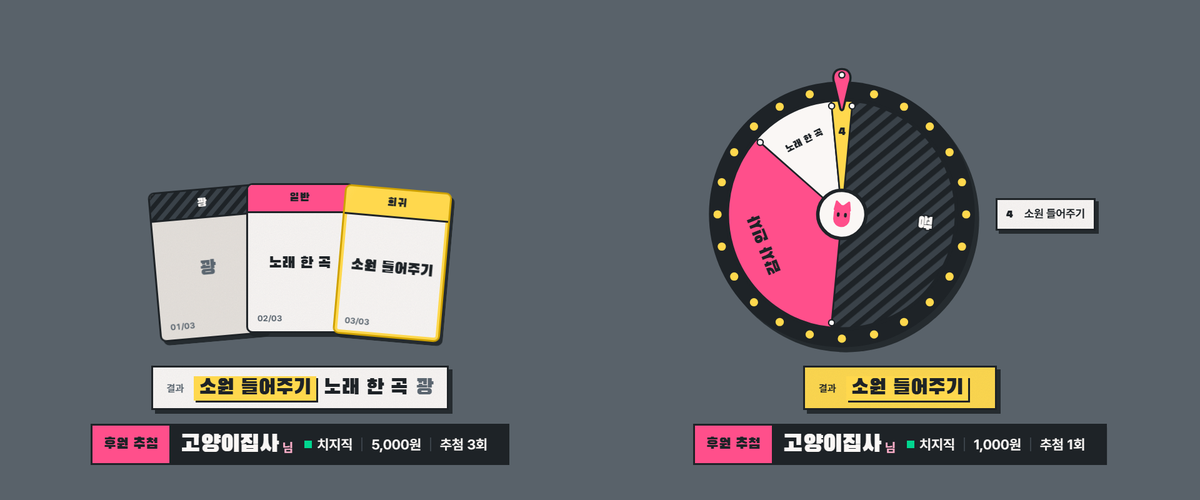
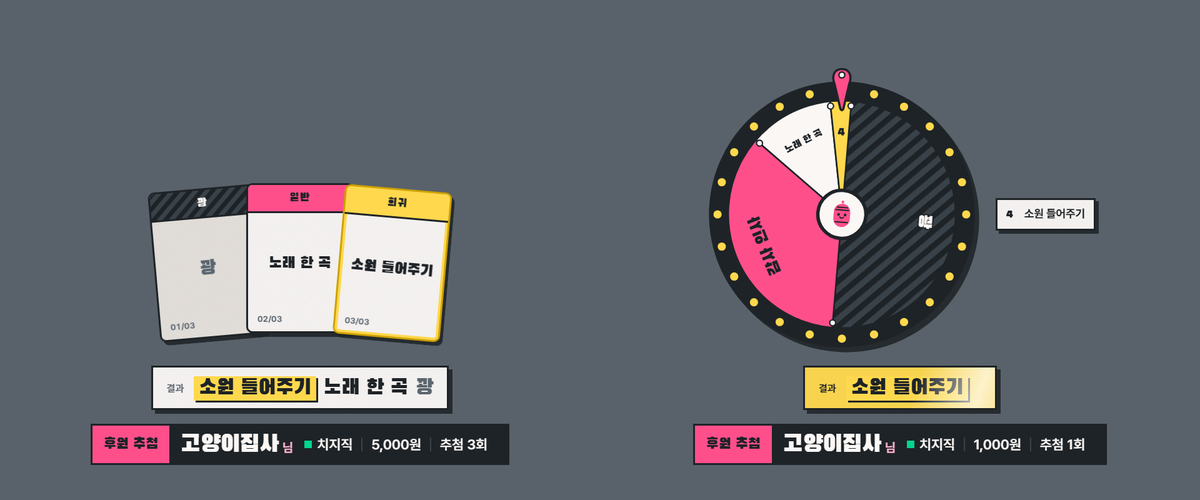
옛 고양이 귀 마이크 문양을 마스코트 마이로: 추첨 카드 뒷면, 룰렛 가운데, 즉석 복권 머리, 추첨기 손잡이, 뽑기판 덮개 무늬(마이 문양: 꼭대기 불, 망 두 줄, 웃는 얼굴, 띠, 두 색이라 디자인 색 그대로), 달리기 경주 캐릭터(참가자 색 몸에 은색 망 머리와 코랄 불, 눈과 경계선이 겹치지 않게). 레이스 설명과 사용 설명서 문구, 추첨 연출 그림 다시 찍음, 시험

diff --git a/src/debutkit/overlay/static/race.js b/src/debutkit/overlay/static/race.js
@@ -1732,7 +1732,7 @@
     return { drawStatic, draw, shake, events, end: heat.end, finishes: heat.order.map((lane) => profile.times[lane]), tick: "tick" };
   }
 
-  // ---------------------------------------------------------------- 달리기 경주: 고양이 귀 마이크 콩 캐릭터(원작 도형)
+  // ---------------------------------------------------------------- 달리기 경주: 마스코트 마이(리본 마이크, 은색 망 머리와 코랄 불)
   function drawRunner(g, P, x, y, S, color, phase, pose, t, number, font) {
     // x, y: 발 아래 땅, S: 키
     g.save();
@@ -1783,28 +1783,15 @@
     }
     g.translate(0, bodyY);
     g.rotate(tilt);
-    // 귀
-    g.fillStyle = color.fill;
+    // 꼭대기 불(마이의 코랄 불): 몸 뒤에서 위로 조금 나옴
+    g.fillStyle = "#ff6f6f";
     g.strokeStyle = outline;
     g.lineWidth = line;
-    for (const side of [-1, 1]) {
-      g.beginPath();
-      g.moveTo(side * bodyW * 0.42, -bodyH * 0.22);
-      g.lineTo(side * bodyW * 0.36, -bodyH * 0.72);
-      g.lineTo(side * bodyW * 0.06, -bodyH * 0.42);
-      g.closePath();
-      g.fill();
-      g.stroke();
-      g.fillStyle = color.light;
-      g.beginPath();
-      g.moveTo(side * bodyW * 0.34, -bodyH * 0.3);
-      g.lineTo(side * bodyW * 0.32, -bodyH * 0.6);
-      g.lineTo(side * bodyW * 0.14, -bodyH * 0.42);
-      g.closePath();
-      g.fill();
-      g.fillStyle = color.fill;
-    }
-    // 몸(마이크 머리 모양의 콩)
+    g.beginPath();
+    g.arc(0, -bodyH * 0.53, Math.max(2, bodyW * 0.1), 0, TAU);
+    g.fill();
+    g.stroke();
+    // 몸(마이: 리본 마이크 모양). 몸 색은 참가자마다 다름
     const shade = g.createLinearGradient(0, -bodyH / 2, 0, bodyH / 2);
     shade.addColorStop(0, P.design === "paper" ? color.fill : color.light);
     shade.addColorStop(0.45, color.fill);
@@ -1812,16 +1799,37 @@
     g.fillStyle = shade;
     roundRect(g, -bodyW / 2, -bodyH / 2, bodyW, bodyH, bodyW * 0.48);
     g.fill();
-    g.stroke();
-    // 마이크 망(이마 위 점무늬)
-    g.fillStyle = "rgba(255, 255, 255, 0.35)";
-    for (let k = -1; k <= 1; k++) {
+    // 망 머리: 몸 윗부분을 은색으로, 망 두 줄과 경계선. 눈과 겹치지 않도록 경계선은 눈 위쪽에 여유를 둠
+    const capBottom = -bodyH * 0.25;
+    g.save();
+    roundRect(g, -bodyW / 2, -bodyH / 2, bodyW, bodyH, bodyW * 0.48);
+    g.clip();
+    const metal = g.createLinearGradient(0, -bodyH / 2, 0, capBottom);
+    metal.addColorStop(0, "#f4f1fb");
+    metal.addColorStop(1, "#cfc8e6");
+    g.fillStyle = metal;
+    g.fillRect(-bodyW / 2, -bodyH / 2, bodyW, capBottom + bodyH / 2);
+    g.strokeStyle = "rgba(74, 60, 134, 0.7)";
+    g.lineWidth = Math.max(1, S * 0.02);
+    for (const k of [0.41, 0.33]) {
       g.beginPath();
-      g.arc(k * bodyW * 0.16, -bodyH * 0.3, Math.max(1, S * 0.022), 0, TAU);
-      g.fill();
+      g.moveTo(-bodyW / 2, -bodyH * k);
+      g.lineTo(bodyW / 2, -bodyH * k);
+      g.stroke();
     }
-    // 눈(오른쪽을 봄)
-    const eyeY = -bodyH * 0.08;
+    g.strokeStyle = outline;
+    g.lineWidth = line;
+    g.beginPath();
+    g.moveTo(-bodyW / 2, capBottom);
+    g.lineTo(bodyW / 2, capBottom);
+    g.stroke();
+    g.restore();
+    g.strokeStyle = outline;
+    g.lineWidth = line;
+    roundRect(g, -bodyW / 2, -bodyH / 2, bodyW, bodyH, bodyW * 0.48);
+    g.stroke();
+    // 눈(오른쪽을 봄). 망 머리 경계선 아래
+    const eyeY = -bodyH * 0.03;
     g.fillStyle = "#ffffff";
     g.beginPath();
     g.ellipse(bodyW * 0.2, eyeY, S * 0.07, S * 0.085, 0, 0, TAU);

diff --git a/src/debutkit/overlay/static/draw.js b/src/debutkit/overlay/static/draw.js
@@ -1,5 +1,5 @@
 // debutkit 후원 추첨 연출(OBS 브라우저 소스, 권장 1920x1080). /live?feeds=draw 로 추첨 결과를 받아 차례로 연출한다.
-// 콘셉트 "방송 소품": 고양이 귀 마이크 문양을 찍은 실물 카드와 무대용 상품 룰렛. 소품과 하단 띠만 화면 아래쪽에 놓는다.
+// 콘셉트 "방송 소품": 마스코트 마이(리본 마이크) 문양을 찍은 실물 카드와 무대용 상품 룰렛. 소품과 하단 띠만 화면 아래쪽에 놓는다.
 // 연출 순서: 시작(띠, 소품 등장), 예고(희귀 카드만 금색 빛, 실제 결과와 같음), 공개(일반 카드 빠르게, 희귀 카드 마지막 천천히), 정리(결과 판), 퇴장.
 // 뽑기는 서버가 하고 이 화면은 받은 결과를 보여 주기만 한다(모든 화면이 같은 결과). 글은 textContent로만 넣는다.
 // 시청자 참여 추첨(/live의 raffle): 모집 중에는 하단 모집 띠와 참가자 이름, 결과는 당첨 카드나 순서표로 같은 차례 안에서 연출.
@@ -50,13 +50,18 @@
     ? Promise.all(['40px "Black Han Sans"', '600 20px "Pretendard"', '700 20px "Pretendard"'].map((font) => document.fonts.load(font))).catch(() => null)
     : Promise.resolve();
 
-  // 고양이 귀 마이크 문양(assets/brand의 기호와 같은 도형). 그룹으로 만들어 카드 뒷면과 룰렛 가운데에 사용
-  function emblemShapes(body, eyes) {
+  // 마스코트 마이(리본 마이크) 문양: 꼭대기 불, 둥근 몸, 위쪽 망 두 줄, 눈과 웃는 입, 아래 띠. 몸 색과 무늬 색 두 가지로
+  // (assets/brand의 마이를 줄인 모양, pick.js와 같은 도형). 그룹으로 만들어 카드 뒷면, 룰렛 가운데, 소품에 사용. 가운데는 (60, 45)
+  function emblemShapes(body, ink) {
     const group = svgEl("g");
-    group.appendChild(svgEl("path", { d: "M38 32 L42 9 L56 21 Z M82 32 L78 9 L64 21 Z", fill: body, stroke: body, "stroke-width": 6, "stroke-linejoin": "round" }));
-    group.appendChild(svgEl("rect", { x: 36, y: 18, width: 48, height: 64, rx: 24, fill: body }));
-    group.appendChild(svgEl("rect", { x: 45.5, y: 40, width: 8, height: 13, rx: 4, fill: eyes }));
-    group.appendChild(svgEl("rect", { x: 66.5, y: 40, width: 8, height: 13, rx: 4, fill: eyes }));
+    group.appendChild(svgEl("circle", { cx: 60, cy: 9, r: 4, fill: body }));
+    group.appendChild(svgEl("rect", { x: 36, y: 14, width: 48, height: 68, rx: 24, fill: body }));
+    group.appendChild(svgEl("rect", { x: 43, y: 23, width: 34, height: 3.6, rx: 1.8, fill: ink }));
+    group.appendChild(svgEl("rect", { x: 39.5, y: 30.5, width: 41, height: 3.6, rx: 1.8, fill: ink }));
+    group.appendChild(svgEl("circle", { cx: 50.5, cy: 46, r: 4, fill: ink }));
+    group.appendChild(svgEl("circle", { cx: 69.5, cy: 46, r: 4, fill: ink }));
+    group.appendChild(svgEl("path", { d: "M54.5 53 Q60 59.5 65.5 53", fill: "none", stroke: ink, "stroke-width": 3.4, "stroke-linecap": "round" }));
+    group.appendChild(svgEl("rect", { x: 40, y: 66, width: 40, height: 3.6, rx: 1.8, fill: ink }));
     return group;
   }
 

diff --git a/src/debutkit/overlay/static/pick.js b/src/debutkit/overlay/static/pick.js
@@ -211,13 +211,17 @@
     return `rgba(${(value >> 16) & 255}, ${(value >> 8) & 255}, ${value & 255}, ${alpha})`;
   }
 
-  // 고양이 귀 마이크 문양(debutkit 기호, 추첨 카드 뒷면과 같은 도형)
-  function emblem(body, eyes) {
+  // 마스코트 마이(리본 마이크) 문양: 꼭대기 불, 둥근 몸, 망 두 줄, 눈과 웃는 입, 아래 띠(추첨 카드 뒷면 draw.js와 같은 도형)
+  function emblem(body, ink) {
     const svg = svgEl("svg", { viewBox: "30 4 60 82", class: "pk-emblem", "aria-hidden": "true" });
-    svg.appendChild(svgEl("path", { d: "M38 32 L42 9 L56 21 Z M82 32 L78 9 L64 21 Z", fill: body, stroke: body, "stroke-width": 6, "stroke-linejoin": "round" }));
-    svg.appendChild(svgEl("rect", { x: 36, y: 18, width: 48, height: 64, rx: 24, fill: body }));
-    svg.appendChild(svgEl("rect", { x: 45.5, y: 40, width: 8, height: 13, rx: 4, fill: eyes }));
-    svg.appendChild(svgEl("rect", { x: 66.5, y: 40, width: 8, height: 13, rx: 4, fill: eyes }));
+    svg.appendChild(svgEl("circle", { cx: 60, cy: 9, r: 4, fill: body }));
+    svg.appendChild(svgEl("rect", { x: 36, y: 14, width: 48, height: 68, rx: 24, fill: body }));
+    svg.appendChild(svgEl("rect", { x: 43, y: 23, width: 34, height: 3.6, rx: 1.8, fill: ink }));
+    svg.appendChild(svgEl("rect", { x: 39.5, y: 30.5, width: 41, height: 3.6, rx: 1.8, fill: ink }));
+    svg.appendChild(svgEl("circle", { cx: 50.5, cy: 46, r: 4, fill: ink }));
+    svg.appendChild(svgEl("circle", { cx: 69.5, cy: 46, r: 4, fill: ink }));
+    svg.appendChild(svgEl("path", { d: "M54.5 53 Q60 59.5 65.5 53", fill: "none", stroke: ink, "stroke-width": 3.4, "stroke-linecap": "round" }));
+    svg.appendChild(svgEl("rect", { x: 40, y: 66, width: 40, height: 3.6, rx: 1.8, fill: ink }));
     return svg;
   }
 

diff --git a/site/guide.html b/site/guide.html
@@ -616,7 +616,7 @@ debutkit settings                                # 저장 내용 확인</code></
           <figcaption>그림 5. 알림 꾸미기의 추천 모양과 스타일 그림</figcaption>
         </figure>
         <h3 id="overlay-draw">후원 추첨</h3>
-        <p>후원이 오면 상품표에서 확률대로 뽑아 방송 화면에 카드 뒤집기, 룰렛, 캡슐 뽑기, 즉석 복권, 티켓 출력, 추첨기, 타로 중 고른 연출로 표시합니다. 평소에는 투명하고 추첨할 때만 화면 아래쪽에 나타납니다. 고양이 귀 마이크 문양을 찍은 카드와 무대용 상품 룰렛, 후원자와 금액을 표시하는 하단 띠로 구성됩니다.</p>
+        <p>후원이 오면 상품표에서 확률대로 뽑아 방송 화면에 카드 뒤집기, 룰렛, 캡슐 뽑기, 즉석 복권, 티켓 출력, 추첨기, 타로 중 고른 연출로 표시합니다. 평소에는 투명하고 추첨할 때만 화면 아래쪽에 나타납니다. 마스코트 마이(리본 마이크) 문양을 찍은 카드와 무대용 상품 룰렛, 후원자와 금액을 표시하는 하단 띠로 구성됩니다.</p>
         <ol class="procedure">
           <li>오버레이를 시작한 뒤 시작하기 화면의 후원 추첨 카드에서 추첨 설정과 시험 추첨을 엽니다. 설정 마법사에서는 채팅과 알림 단계의 후원 추첨 설정 버튼을 누릅니다.</li>
           <li>상품표에 상품 이름과 가중치를 입력합니다. 가중치는 비율이며 확률이 바로 계산됩니다.</li>

diff --git a/src/debutkit/overlay/static/race-control.html b/src/debutkit/overlay/static/race-control.html
@@ -199,7 +199,7 @@
   };
   const GAME_HINTS = {
     marble: "구슬이 핀과 레일을 지나 굴러 내려갑니다. 100명까지 한 판.",
-    run: "고양이 귀 마이크 캐릭터가 줄마다 달립니다. 8명씩 조별 경기 뒤 결승(다음 조는 버튼으로 시작) 또는 30명까지 모두 함께.",
+    run: "마스코트 마이(리본 마이크)가 줄마다 달립니다. 8명씩 조별 경기 뒤 결승(다음 조는 버튼으로 시작) 또는 30명까지 모두 함께.",
     survival: "원형 경기장에서 부딪히며 마지막 한 명이 남습니다. 100명까지 한 판.",
   };
   let choices = null;

diff --git a/src/debutkit/overlay/static/draw.css b/src/debutkit/overlay/static/draw.css
@@ -1,4 +1,4 @@
-/* debutkit 후원 추첨 연출: "방송 소품" 콘셉트. 고양이 귀 마이크 문양을 찍은 실물 카드와 무대용 상품 룰렛.
+/* debutkit 후원 추첨 연출: "방송 소품" 콘셉트. 마스코트 마이(리본 마이크) 문양을 찍은 실물 카드와 무대용 상품 룰렛.
    색 4가지(슬레이트 잉크, 크림 종이, 핑크 인쇄, 금박은 희귀 전용), 흐림 없는 딱딱한 그림자와 외곽선.
    화면 가운데 패널 없이 소품과 하단 띠만 화면 아래쪽에 놓는다(위치, 크기는 설정). OBS 사용자 지정 CSS로 덮어쓸 수 있음 */
 

diff --git a/tests/test_brand.py b/tests/test_brand.py
@@ -68,6 +68,21 @@ def test_builtin_3d_debi_is_complete_and_recorded():
     assert record["tool"] == "packaging/build_debi3d.py" and record["changes"]
 
 
+def test_props_use_mai_not_the_old_cat_ear_emblem():
+    """추첨 카드와 소품(draw.js), 뽑기판 덮개(pick.js), 레이스 달리기(race.js)는 마스코트 마이(망 두 줄, 꼭대기 불, 띠)."""
+    from debutkit import pick
+
+    cat_ears = "M38 32 L42 9 L56 21 Z"
+    for name in ("draw.js", "pick.js"):
+        script = (STATIC / name).read_text(encoding="utf-8")
+        assert cat_ears not in script and "마이(리본 마이크) 문양" in script, name
+        assert 'cx: 60, cy: 9, r: 4' in script and 'x: 40, y: 66, width: 40' in script, name  # 꼭대기 불, 아래 띠
+    race = (STATIC / "race.js").read_text(encoding="utf-8")
+    assert "// 귀" not in race and "망 머리" in race and '"#ff6f6f"' in race
+    assert "고양이" not in (STATIC / "race-control.html").read_text(encoding="utf-8")
+    assert pick.COVERS["emblem"] == "마이 문양"
+
+
 @pytest.fixture
 def port():
     srv = OverlayServer([], port=0).start()

diff --git a/src/debutkit/pick.py b/src/debutkit/pick.py
@@ -80,7 +80,7 @@ COLORS = {"channel": ("방송 색", "#ff4f8b"), "pink": ("핑크", "#ff4f8b"), "
           "violet": ("보라", "#8a5cf5"), "lilac": ("라일락", "#c39bf0"), "cocoa": ("코코아", "#8a5a44"), "slate": ("먹", "#3a4249")}
 COLOR_PARTS = {"cover": "덮개", "board": "판 바탕", "text": "글자", "win": "당첨 띠"}
 COVERS = {"number": "큰 번호", "dots": "망점", "stripes": "사선", "check": "체크", "grid": "모눈", "stars": "별", "hearts": "하트",
-          "waves": "물결", "question": "물음표", "emblem": "고양이 문양", "gift": "선물 포장"}
+          "waves": "물결", "question": "물음표", "emblem": "마이 문양", "gift": "선물 포장"}
 #: 함께 배포한 글꼴(Black Han Sans, Pretendard)과 Windows 기본 글꼴
 FONTS = {"blackhan": "Black Han Sans", "pretendard": "Pretendard", "malgun": "맑은 고딕", "serif": "바탕(명조)"}
 EFFECTS = {"confetti": "종이 조각", "stars": "별 터짐", "ribbons": "리본", "rays": "집중선", "coins": "동전 비", "hearts": "하트",

diff --git a/CHANGELOG.md b/CHANGELOG.md
@@ -80,6 +80,7 @@
 ### 변경
 - 새 로고와 메인 캐릭터 데비: 데비(데뷔 준비생, 라벤더 옆 포니테일과 별 머리핀)가 원형 배지 위로 나온 심볼과 앱 아이콘, Pretendard 윤곽선 워드마크(i의 점 자리 노란 별), 가로형과 세로형 로고, 컨셉 보드. 32px 이하와 파비콘은 도형으로 직접 그린 마스코트 마이(리본 마이크, 줄 없는 얼굴판). 모든 파일과 실행 파일, 설정 마법사 아이콘을 packaging/build_brand.py가 생성. 브랜드 색을 라벤더, 민트, 노랑으로(stream2clip 키리의 분홍과 구분), 소개 페이지 강조 색 변경
 - 기본 캐릭터를 데비 PNGTuber 4상태로(원본 위에 Qwen-Image-Edit-2511로 만든 눈, 입만 붙여 머리핀과 헤드셋이 모든 상태에서 같음, 생성 기록). 시작하기 화면(방송 준비 데비, 방송 직전 점검 큐), 후원 추첨의 빈 결과(캡슐), 캐릭터 그림 만들기의 VRM 없음(데생이)에 마스코트 안내(debutkitUi.mascot)
+- 옛 고양이 귀 마이크 문양을 마스코트 마이로: 추첨 카드 뒷면, 룰렛 가운데, 즉석 복권 머리, 추첨기 손잡이, 뽑기판 덮개 무늬(마이 문양, 꼭대기 불, 망 두 줄, 웃는 얼굴, 띠. 몸 색과 무늬 색 두 가지라 디자인 색을 그대로 따름), 달리기 경주 캐릭터(참가자 색 몸에 은색 망 머리와 코랄 불, 눈과 경계선이 겹치지 않게). 추첨 연출 그림 다시 찍음
 - 마스코트 캐스트 시안(assets/brand/mascot): 데비(데뷔 준비생), 마이(리본 마이크), 큐(무대 감독), 뽀글이들, 캡슐, 뻐꾹, 데생이, 패드. FLUX.1 schnell(Apache-2.0) 생성, 배경 제거, 파일별 지시문과 시드 기록. 게임 패키지 미리보기의 예시 캐릭터를 데비로
 - 모든 방송 화면(채팅, 알림, 캐릭터, 추첨, 뽑기판, 후원 벽, 레이스, 휴대폰 앱 카메라)이 공유 연결(SharedWorker) 하나로 서버 값을 받음. 브라우저는 같은 주소에 동시 연결을 6개까지만 열어(OBS 브라우저 소스끼리도 공유) 연출 화면이 늘면 일부 화면이 멈추던 문제를 막음. 공유 연결이 안 되는 환경은 화면마다 직접 연결
 - 무대 차례: 화면 가운데를 크게 쓰는 연출(후원 추첨, 참여 추첨 결과, 뽑기판 결과)이 겹치지 않도록 먼저 온 것부터 하나씩. 알림, 후원 벽 카드, 채팅은 함께
